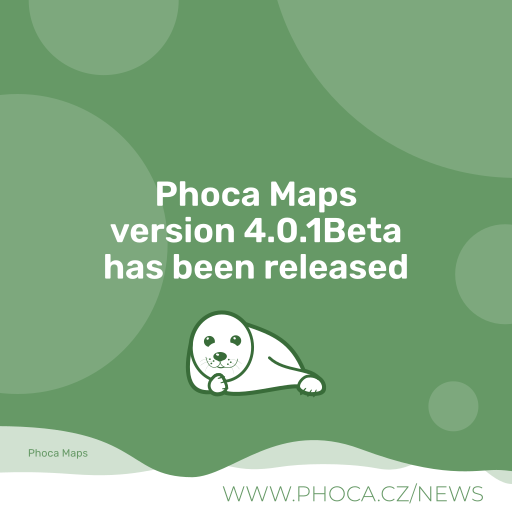
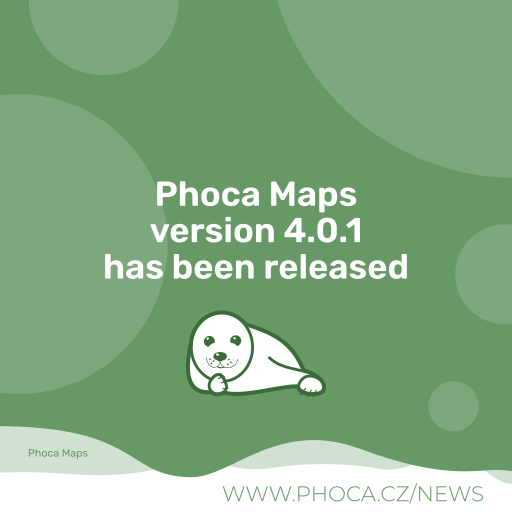
4.0.1

Changed region(s): [[0.2188, 0.4062, 0.7812, 0.5]]

diff --git a/README.MD b/README.MD
@@ -62,7 +62,7 @@ Phoca Maps is Joomla! CMS component. It displays maps on your site rendered with
 
 ## Version (Joomla! 4.x)
 
-4.0.1Beta
+4.0.1
 
 
 
